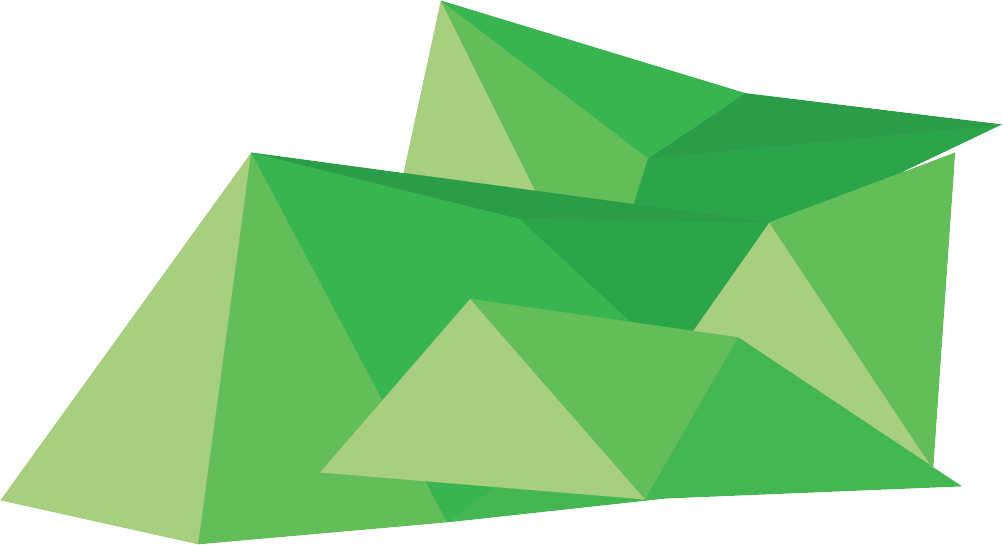
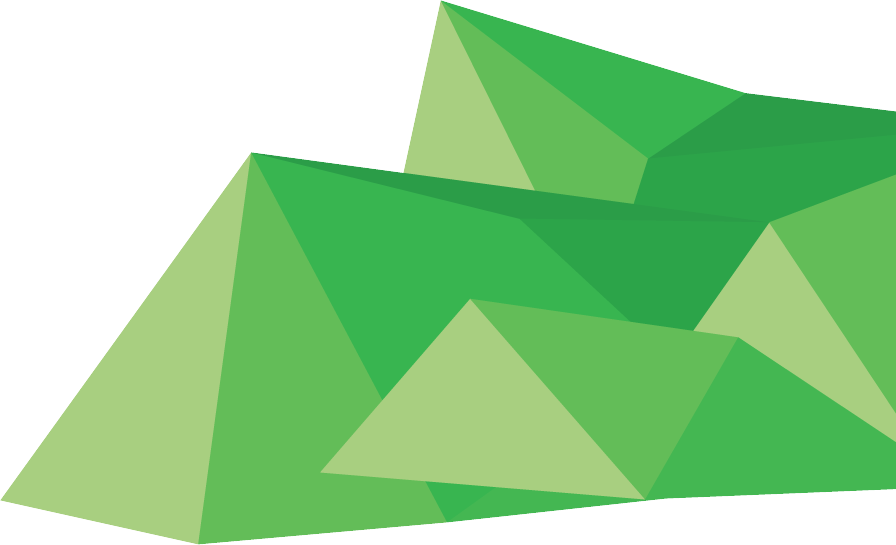
update header

diff --git a/style.css b/style.css
@@ -1,6 +1,6 @@
 body { font-family: 'Source Sans Pro', sans-serif; margin: 0; padding: 0;}
 
-.header { background: #fff; position: absolute; top: 0; left: 0; right: 0; border-bottom: 1px solid #dfe2e4;  background-image: url('images/header-abstract.png'); background-repeat: no-repeat; background-position: 160% -10px; }
+.header { background: #fff; position: absolute; top: 0; left: 0; right: 0; border-bottom: 1px solid #dfe2e4;  background-image: url('images/header-abstract.png'); background-repeat: no-repeat; background-position: 120% -10px; }
 .header-logo { display: inline-block; font-weight: 600; font-size: 48px; background-image: url('images/dat-hex-small.png'); background-size: 40px; background-repeat: no-repeat; padding-left: 50px; background-position: 0px 8px; margin-left: 160px; margin-top: 8px; }
 .header-nav { height: 80px; position: absolute; top: 0; left: 0; right: 0; opacity: 0.9; background-color: #fdfdfd; font-weight: 700; color: #2A3749; font-size: 20px; border-bottom: 1px solid #f0f0f0; }
 .header-nav-links { margin-right: 160px; display: inline-block; float: right; }
@@ -15,4 +15,4 @@ body { font-family: 'Source Sans Pro', sans-serif; margin: 0; padding: 0;}
 .header-continue { font-size: 20px; font-weight: 700; color: #35B44F; }
 .button { display: inline-block; }
 
-.content { margin-top: 430px; }
+.content { margin-top: 430px; background-color: #f4f5f6; }

diff --git a/index.html b/index.html
@@ -23,10 +23,10 @@
   </div>
 
   <div class="header-info">
-    <div class="header-title">Data package management</div>
+    <div class="header-title">Build data pipelines</div>
     <div class="header-horizontal-rule"></div>
-    <div class="header-description">Dat is an open source tool that enables the sharing of large datasets, the goal being a collaboration flow similar to what git oﬀers for source code.</div>
-    <div class="header-continue">Find out more ></div>
+    <div class="header-description">Dat is an open source tool that lets you build data pipelines that can be shared and replicated by others.</div>
+    <div class="header-continue">Find out more &rsaquo;</div>
   </div>
 
 </div>
